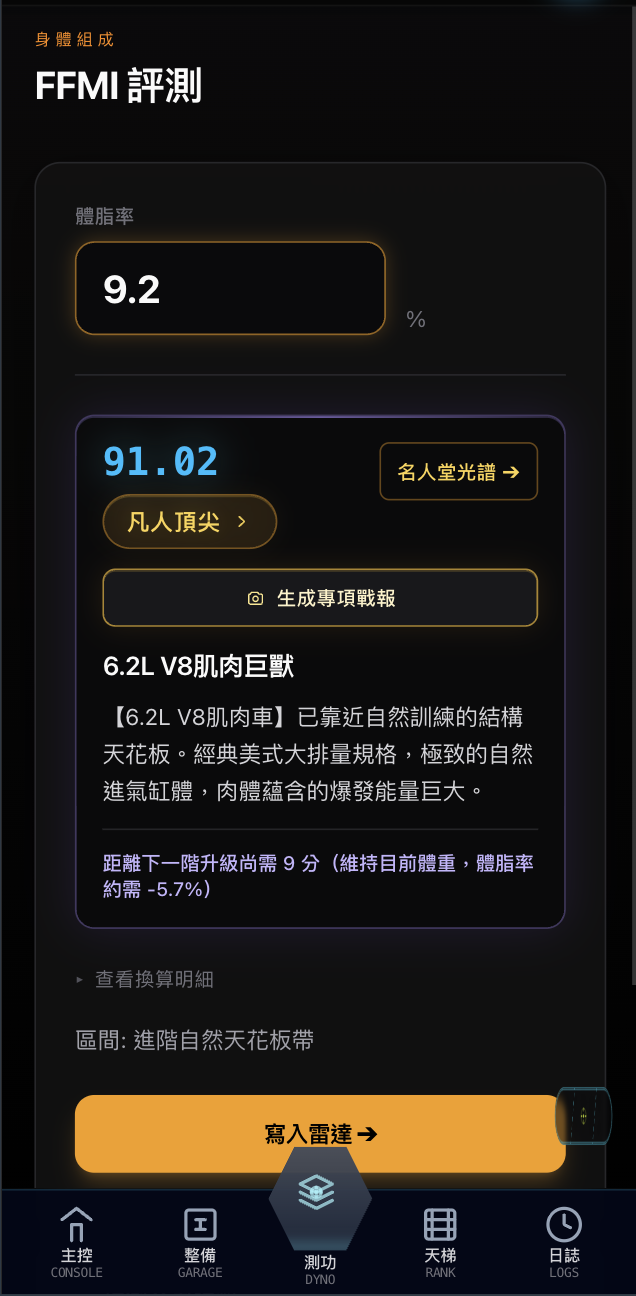
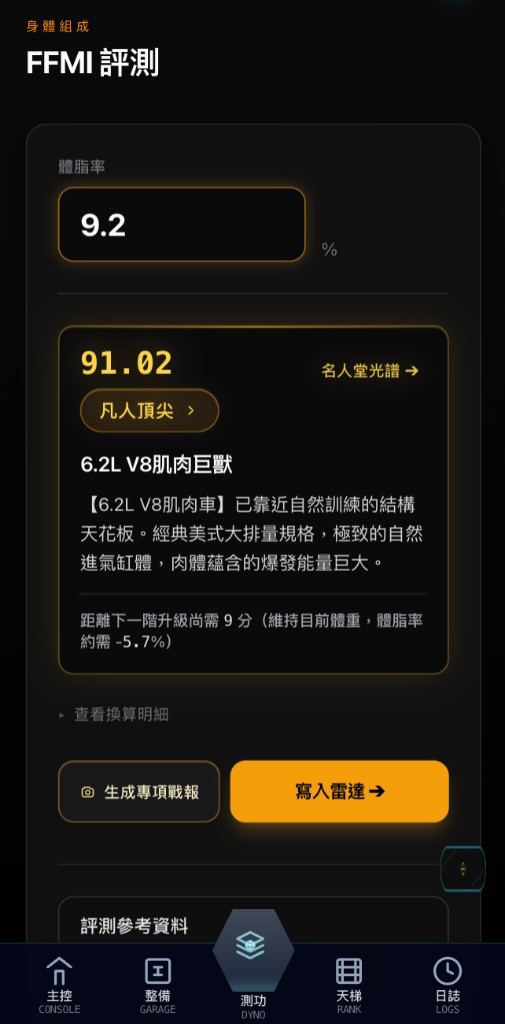
feat(website): refresh Systems preview frame and FFMI still
Replace the iPhone-shell chrome with a flat Canva-style rounded frame and update the 01 基準 FFMI screenshot so store-art headers stay unobstructed.

diff --git a/website/src/components/SystemsShowcase.tsx b/website/src/components/SystemsShowcase.tsx
@@ -13,9 +13,10 @@ import { ImageLightbox } from './ImageLightbox';
 import { PhoneSystemCarousel } from './PhoneSystemCarousel';
 
 /**
- * Homepage「四大核心評測系統」— tabbed console + Ladder-style glowing iPhone.
- * WHY: Tabs → bold title → pure phone → caption only (no SYS eyebrow / chip);
- * `SYSTEM_PREVIEWS` drives still vs carousel; lightbox mirrors the active slide.
+ * Homepage「四大核心評測系統」— tabbed console + Canva-style rounded preview frame.
+ * WHY: Tabs → bold title → flat rounded still → caption only (no SYS eyebrow /
+ * chip / hardware chrome); `SYSTEM_PREVIEWS` drives still vs carousel; lightbox
+ * mirrors the active slide.
  */
 
 type SystemAccent = 'energy' | 'violet' | 'emerald' | 'amber';
@@ -58,42 +59,39 @@ const ACCENT: Record<
     tabSelected: string;
     tabDot: string;
     focus: string;
-    glow: string;
-    ring: string;
-    ringSoft: string;
+    /** Panel wash behind title + frame. */
+    panelGlow: string;
+    /** Soft halo behind the preview chassis. */
+    frameGlow: string;
   }
 > = {
   energy: {
     tabSelected: `border-energy/55 ${TAB_SELECTED_SHELL} text-energy shadow-energy/10`,
     tabDot: 'bg-energy shadow-[0_0_8px_rgba(0,191,255,0.85)]',
     focus: 'focus-visible:ring-energy/50',
-    glow: 'bg-energy/10',
-    ring: 'rgba(0,191,255,0.75)',
-    ringSoft: 'rgba(0,191,255,0.22)',
+    panelGlow: 'bg-energy/10',
+    frameGlow: 'rgba(0,191,255,0.22)',
   },
   violet: {
     tabSelected: `border-violet-400/55 ${TAB_SELECTED_SHELL} text-violet-300 shadow-violet-500/15`,
     tabDot: 'bg-violet-400 shadow-[0_0_8px_rgba(167,139,250,0.85)]',
     focus: 'focus-visible:ring-violet-500/50',
-    glow: 'bg-violet-500/10',
-    ring: 'rgba(167,139,250,0.8)',
-    ringSoft: 'rgba(139,92,246,0.25)',
+    panelGlow: 'bg-violet-500/10',
+    frameGlow: 'rgba(139,92,246,0.25)',
   },
   emerald: {
     tabSelected: `border-emerald-400/55 ${TAB_SELECTED_SHELL} text-emerald-300 shadow-emerald-500/15`,
     tabDot: 'bg-emerald-400 shadow-[0_0_8px_rgba(52,211,153,0.85)]',
     focus: 'focus-visible:ring-emerald-500/50',
-    glow: 'bg-emerald-500/10',
-    ring: 'rgba(52,211,153,0.8)',
-    ringSoft: 'rgba(16,185,129,0.25)',
+    panelGlow: 'bg-emerald-500/10',
+    frameGlow: 'rgba(16,185,129,0.25)',
   },
   amber: {
     tabSelected: `border-amber-400/55 ${TAB_SELECTED_SHELL} text-amber-300 shadow-amber-500/15`,
     tabDot: 'bg-amber-400 shadow-[0_0_8px_rgba(251,191,36,0.85)]',
     focus: 'focus-visible:ring-amber-500/50',
-    glow: 'bg-amber-500/10',
-    ring: 'rgba(251,191,36,0.85)',
-    ringSoft: 'rgba(245,158,11,0.28)',
+    panelGlow: 'bg-amber-500/10',
+    frameGlow: 'rgba(245,158,11,0.28)',
   },
 };
 
@@ -155,11 +153,18 @@ const SYSTEMS: readonly SystemTab[] = [
 const TAB_PANEL_ID = 'system-tab-panel';
 
 /**
- * Mobile frame width tracks max-h so aspect+[max-h] never letterbox-crops media.
+ * Preview frame width tracks max-h so aspect+[max-h] never letterbox-crops media.
  * 46svh × 9/16.2 ≈ width; capped at 252px.
  */
-const PHONE_SHELL =
+const PREVIEW_SHELL =
   'relative mx-auto w-[min(252px,100%,calc(46svh*9/16.2))] sm:w-full sm:max-w-[280px]';
+
+/** Slim Canva-store bezel — flat top, no notch / island / side keys. */
+const PREVIEW_FRAME =
+  'relative overflow-hidden rounded-[2.25rem] border border-zinc-700/80 bg-zinc-950 p-1 shadow-[0_12px_40px_rgba(0,0,0,0.55),inset_0_0_0_1px_rgba(251,191,36,0.08)] sm:rounded-[2.35rem] sm:p-1.5';
+
+const PREVIEW_SCREEN =
+  'overflow-hidden rounded-[1.85rem] bg-void sm:rounded-[1.95rem]';
 
 /*
   WHY: Caption stays ≤300px for 2-line scan; heading drops side pad + uses
@@ -184,7 +189,12 @@ function SystemHeading({ item }: { item: SystemTab }) {
   );
 }
 
-function GlowIphoneFrame({
+/**
+ * Systems preview chassis — rounded rect + accent halo only.
+ * WHY: Store-art frames read as product UI, not plastic iPhone shells; island /
+ * notch / side keys previously occluded screenshot headers on every tab.
+ */
+function SystemPreviewFrame({
   item,
   previews,
   slideIndex,
@@ -197,58 +207,43 @@ function GlowIphoneFrame({
   onSlideChange: (index: number) => void;
   onOpenLightbox: () => void;
 }) {
-  const { ring, ringSoft } = ACCENT[item.accent];
-  const ringStyle = {
-    '--sys-ring': ring,
-    '--sys-ring-soft': ringSoft,
+  const { frameGlow } = ACCENT[item.accent];
+  const glowStyle = {
+    '--sys-glow': frameGlow,
   } as CSSProperties;
 
   return (
-    <div className={PHONE_SHELL} style={ringStyle}>
+    <div className={PREVIEW_SHELL} style={glowStyle}>
       <div
-        className="pointer-events-none absolute -inset-2 rounded-[2.4rem] opacity-90 transition-all duration-500 sm:-inset-3 sm:rounded-[2.6rem]"
+        className="pointer-events-none absolute -inset-3 rounded-[2.6rem] opacity-80 transition-all duration-500 sm:-inset-4 sm:rounded-[2.75rem]"
         style={{
           background:
-            'radial-gradient(circle at 50% 40%, var(--sys-ring-soft), transparent 65%)',
-          boxShadow:
-            '0 0 0 1px var(--sys-ring-soft), 0 0 42px var(--sys-ring-soft)',
-        }}
-        aria-hidden
-      />
-      <div
-        className="pointer-events-none absolute -inset-[3px] rounded-[2.2rem] transition-colors duration-500 sm:rounded-[2.35rem]"
-        style={{
-          background:
-            'linear-gradient(160deg, var(--sys-ring), transparent 55%, var(--sys-ring-soft))',
+            'radial-gradient(circle at 50% 42%, var(--sys-glow), transparent 68%)',
+          boxShadow: '0 0 36px var(--sys-glow)',
         }}
         aria-hidden
       />
 
-      <div className="relative overflow-hidden rounded-[2rem] border border-zinc-600/80 bg-zinc-950 shadow-2xl sm:rounded-[2.1rem]">
-        <div
-          className="pointer-events-none absolute inset-x-0 top-0 z-10 flex justify-center pt-2 sm:pt-2.5"
-          aria-hidden
-        >
-          <div className="h-3.5 w-16 rounded-full bg-black/90 sm:h-4 sm:w-20" />
+      <div className={PREVIEW_FRAME}>
+        <div className={PREVIEW_SCREEN}>
+          <PhoneSystemCarousel
+            key={item.sys}
+            item={item}
+            previews={previews}
+            slideIndex={slideIndex}
+            onSlideChange={onSlideChange}
+            onOpenLightbox={onOpenLightbox}
+          />
         </div>
-
-        <PhoneSystemCarousel
-          key={item.sys}
-          item={item}
-          previews={previews}
-          slideIndex={slideIndex}
-          onSlideChange={onSlideChange}
-          onOpenLightbox={onOpenLightbox}
-        />
       </div>
     </div>
   );
 }
 
 /**
- * Body under the bezel — emphasis only; no spectrum chip.
+ * Body under the preview frame — emphasis only; no spectrum chip.
  * WHY min-h + line-clamp-2: four tab captions stay the same 2-line budget so
- * phone↔CTA spacing does not jump when switching systems on narrow phones.
+ * frame↔CTA spacing does not jump when switching systems on narrow phones.
  */
 function SystemCaption({ item }: { item: SystemTab }) {
   const { before, emphasis, after } = item.body;
@@ -272,7 +267,7 @@ export function SystemsShowcase() {
   const previews = SYSTEM_PREVIEWS[active.sys];
   const safeSlide = Math.min(slideIndex, Math.max(0, previews.length - 1));
   const activeSrc = previews[safeSlide] ?? MARKETING_POSTER_SRC;
-  const activeGlow = ACCENT[active.accent].glow;
+  const activeGlow = ACCENT[active.accent].panelGlow;
   const closeLightbox = useCallback(() => setLightboxOpen(false), []);
 
   /** WHY: Tab change resets carousel + closes lightbox so locks never stick. */
@@ -384,7 +379,7 @@ export function SystemsShowcase() {
         />
         <div className="relative flex flex-col items-center">
           <SystemHeading item={active} />
-          <GlowIphoneFrame
+          <SystemPreviewFrame
             item={active}
             previews={previews}
             slideIndex={safeSlide}

diff --git a/website/src/components/PhoneSystemCarousel.tsx b/website/src/components/PhoneSystemCarousel.tsx
@@ -14,8 +14,8 @@ export const PHONE_SCREEN =
   'relative aspect-[9/16.2] max-h-[46svh] w-full bg-void sm:aspect-[9/19] sm:max-h-none';
 
 /*
-  WHY: App stills are taller than the bezel (9/16.2). object-cover clipped
-  status/nav; contain keeps the full UI inside the frame (single + multi).
+  WHY: App stills are taller than the preview aspect (9/16.2). object-cover
+  clipped status/nav; contain keeps the full UI inside the frame (single + multi).
  */
 const PHONE_MEDIA_FIT =
   'absolute inset-0 h-full w-full bg-void object-contain object-center';
@@ -71,7 +71,7 @@ function PhoneVideo({ src, poster }: { src: string; poster: string }) {
 }
 
 /**
- * iPhone screen still / snap carousel.
+ * Systems preview screen still / snap carousel.
  * WHY: Lives outside SystemsShowcase so tab chrome stays lean; multi-only chrome
  * (dots + chevrons) never mounts for length === 1.
  */

diff --git a/website/src/components/ImageLightbox.tsx b/website/src/components/ImageLightbox.tsx
@@ -3,7 +3,7 @@ import { createPortal } from 'react-dom';
 import { usePortalModalLock } from '../hooks/usePortalModalLock';
 
 /**
- * Full-screen image lightbox — shared by Systems iPhone and community thumbs.
+ * Full-screen image lightbox — shared by Systems preview and community thumbs.
  * WHY: Escape / backdrop / body-scroll lock stay one implementation so surfaces
  * never drift on a11y or close UX. Video uses VideoLightbox; athletes use
  * TelemetryDossierModal.

diff --git a/website/src/config/marketingMedia.ts b/website/src/config/marketingMedia.ts
@@ -74,7 +74,7 @@ export const SYS_04_PREVIEWS = [
 export type SystemTabId = '01' | '02' | '03' | '04';
 
 /**
- * Per-tab iPhone stills (1+). Length > 1 enables snap carousel chrome.
+ * Per-tab App stills (1+). Length > 1 enables snap carousel chrome.
  * WHY: Named `SYS_0N_PREVIEWS` arrays keep every tab on the same append path.
  */
 export const SYSTEM_PREVIEWS: Record<SystemTabId, readonly string[]> = {
